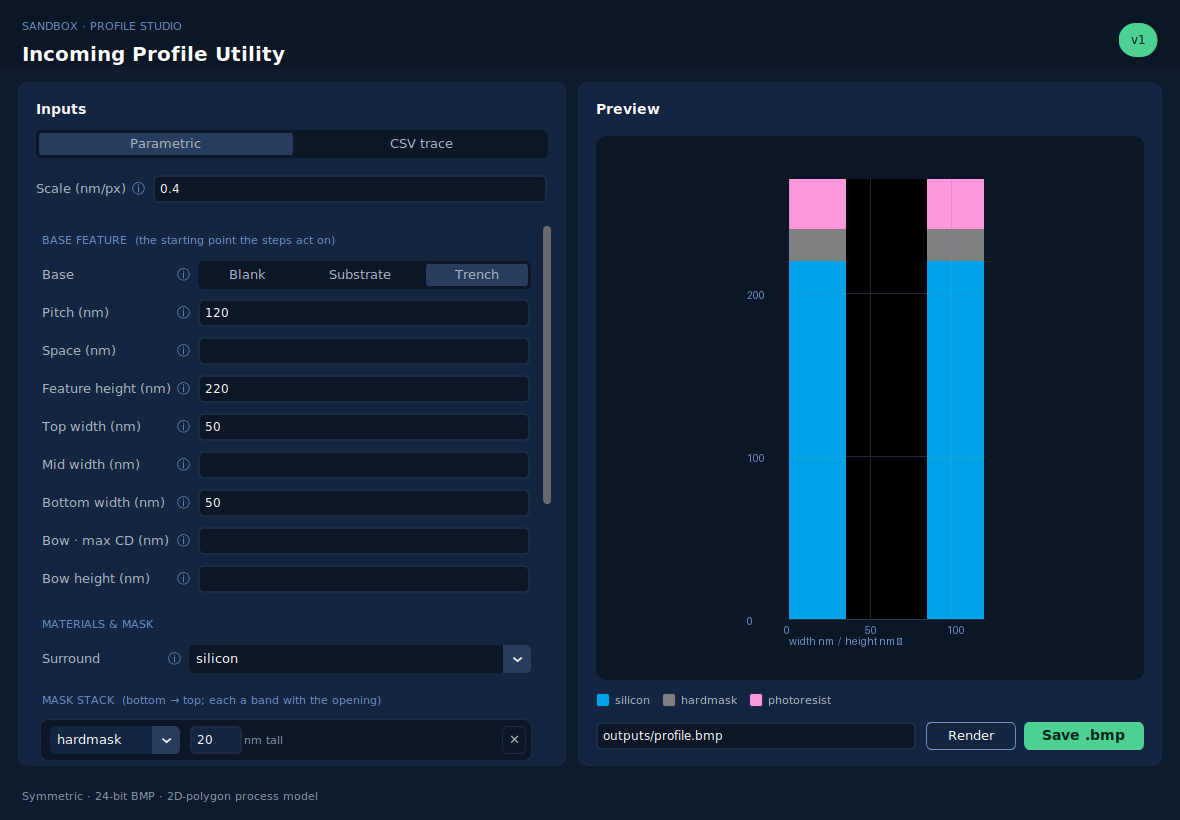
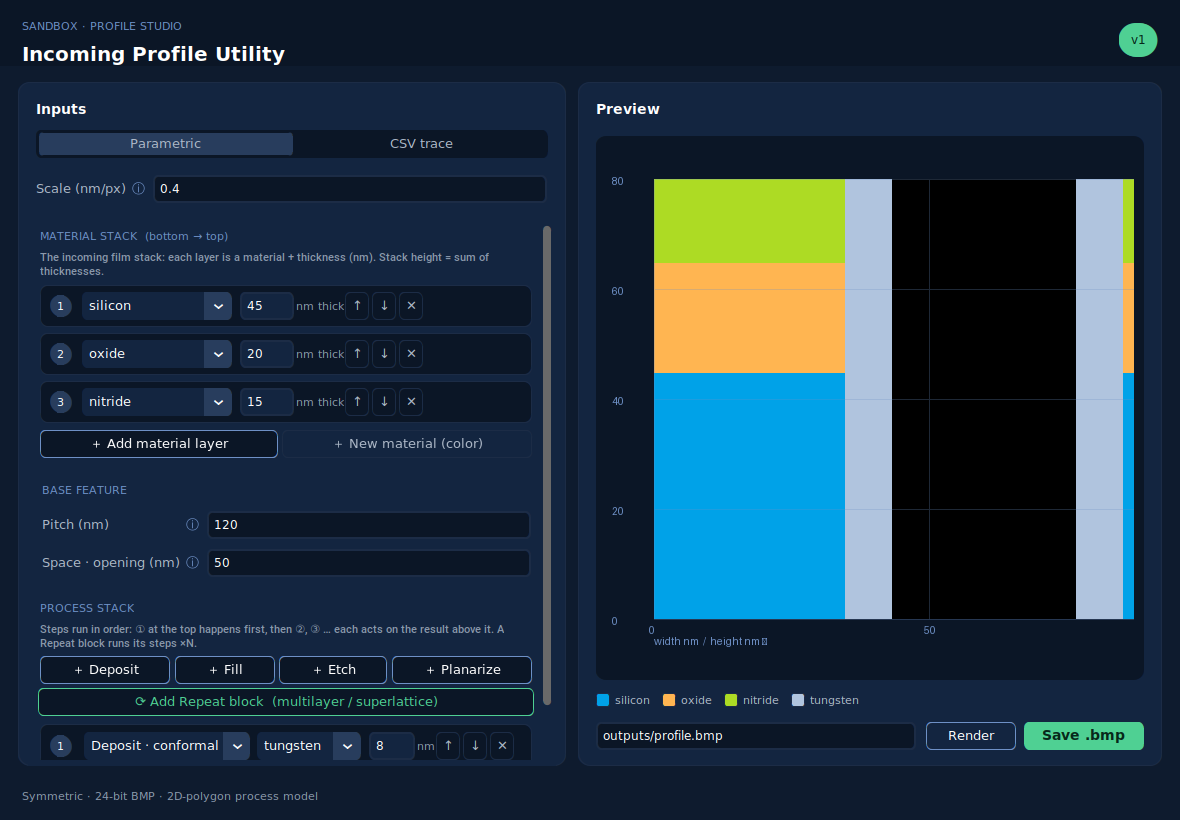
Simplify to material-stack model; fix space=opening, sticky tooltips, blank build
- Base is Blank only (removed Substrate/Trench/Line from the GUI; engine keeps them).
- Promote mask stack to a general MATERIAL STACK, defined first: ordered material +
  thickness layers (bottom->top); height = sum. build_base gains material_layers path.
- BASE FEATURE reduced to Pitch + Space; 'space' now maps directly to the opening
  width (centered rectangular opening cut through the stack) — no more doubling.
  Removed top/mid/bottom width, bow, bow_height, feature_height, mask shape, surround.
- Tooltips: switch to tk.Toplevel with show-delay, destroy-on-leave/click, and a
  safety auto-hide (fixes tooltips sticking on screen).
- conformal deposit on an empty base blankets (start-from-blank layer-by-layer works).
- 19 tests pass.

diff --git a/src/incoming_profile_utility/gui.py b/src/incoming_profile_utility/gui.py
@@ -1,14 +1,15 @@
 """Incoming Profile Utility — GUI (customtkinter), SandBox brand theme.
 
-Parametric mode drives the process-op engine (process.py): a selectable base
-(Blank / Substrate / Trench / Line) plus an ordered process stack of operations —
-including Repeat blocks for multilayer/superlattice stacks — with a live preview,
-nm grid, and material legend. CSV mode renders a width/height trace.
+Parametric mode builds an incoming structure from a **material stack** (ordered
+material layers, defined first) plus a base feature (pitch + a centered opening of
+width = space), then runs an ordered **process stack** of operations on it. Live
+preview, nm grid, material legend. CSV mode renders a width/height trace.
 """
 from __future__ import annotations
 
 import math
 import tempfile
+import tkinter as tk
 from pathlib import Path
 
 import customtkinter as ctk
@@ -24,14 +25,8 @@ BLUE="#283D5D"; BLUE_L="#6E90C6"; GREEN="#4FD093"; GREEN_D="#0E7A49"; GREEN_INK=
 ON="#FFFFFF"; SOFT="#AEB9C8"; MUT="#8B99AC"
 
 FIELDS = [
-    ("pitch","Pitch (nm)","120","Width of one repeating unit cell."),
-    ("space","Space (nm)","","Gap width. pitch = linewidth + space."),
-    ("feature_height","Feature height (nm)","220","Base (0) to top of the trench/feature."),
-    ("top_width","Top width (nm)","50","Full CD at the top (equal top & bottom = straight walls)."),
-    ("mid_width","Mid width (nm)","","Optional mid CD for a gentle curve (ignored if Bow set)."),
-    ("bottom_width","Bottom width (nm)","50","Full CD at the base."),
-    ("bow","Bow · max CD (nm)","","Maximum CD; must be >= top and bottom."),
-    ("bow_height","Bow height (nm)","","Height of the max CD (default mid)."),
+    ("pitch","Pitch (nm)","120","Width of one repeating unit cell = line + opening."),
+    ("space","Space · opening (nm)","50","Width of the centered opening cut through the stack. line width = pitch − space."),
 ]
 OP_LABELS = ["Deposit · conformal","Deposit · planar","Fill","Etch · isotropic","Etch · anisotropic","Planarize"]
 OP_PRESETS = {"deposit":("Deposit · conformal","oxide",8),"fill":("Fill","tungsten",0),
@@ -63,34 +58,64 @@ def compose_preview(bmp_path, nm_per_px, target_h=440):
 
 
 class Tooltip:
-    def __init__(self,widget,text): self.w,self.t,self.tip=widget,text,None; widget.bind("<Enter>",self._s); widget.bind("<Leave>",self._h)
-    def _s(self,_=None):
+    """Lightweight hover tooltip that reliably hides on leave (tk.Toplevel + auto-hide)."""
+    _active=None
+    def __init__(self,widget,text):
+        self.w=widget; self.t=text; self.tip=None; self._show_job=None; self._hide_job=None
+        widget.bind("<Enter>", self._enter, add="+")
+        widget.bind("<Leave>", self._leave, add="+")
+        widget.bind("<Button-1>", self._leave, add="+")
+        widget.bind("<Destroy>", self._leave, add="+")
+    def _enter(self,_=None):
+        self._cancel_jobs(); self._show_job=self.w.after(300, self._show)
+    def _show(self):
         if self.tip or not self.t: return
-        x=self.w.winfo_rootx()+18; y=self.w.winfo_rooty()+18
-        self.tip=tw=ctk.CTkToplevel(self.w); tw.wm_overrideredirect(True); tw.wm_geometry(f"+{x}+{y}"); tw.configure(fg_color=NAVY_700)
-        ctk.CTkLabel(tw,text=self.t,justify="left",wraplength=260,text_color=ON,fg_color=NAVY_700,font=ctk.CTkFont(size=11)).pack(padx=8,pady=6)
-    def _h(self,_=None):
-        if self.tip: self.tip.destroy(); self.tip=None
+        if Tooltip._active is not None:
+            try: Tooltip._active.destroy()
+            except Exception: pass
+            Tooltip._active=None
+        x=self.w.winfo_rootx()+20; y=self.w.winfo_rooty()+22
+        self.tip=tk.Toplevel(self.w); self.tip.wm_overrideredirect(True); self.tip.wm_geometry(f"+{x}+{y}")
+        tk.Label(self.tip,text=self.t,justify="left",wraplength=260,bg=NAVY_700,fg=ON,
+                 font=("",9),padx=8,pady=6,bd=0).pack()
+        Tooltip._active=self.tip
+        self._hide_job=self.w.after(6000, self._leave)   # safety auto-hide
+    def _cancel_jobs(self):
+        for j in (self._show_job,self._hide_job):
+            if j:
+                try: self.w.after_cancel(j)
+                except Exception: pass
+        self._show_job=self._hide_job=None
+    def _leave(self,_=None):
+        self._cancel_jobs()
+        if self.tip:
+            try: self.tip.destroy()
+            except Exception: pass
+            if Tooltip._active is self.tip: Tooltip._active=None
+            self.tip=None
 
 
-class MaskLayerRow:
-    """One layer of the mask stack: a material + a height (bands, bottom -> top)."""
-    def __init__(self, app, material, height):
+class MaterialLayerRow:
+    """One layer of the material stack: material + thickness (bottom -> top)."""
+    def __init__(self, app, material, thickness):
         self.app=app
-        self.frame=ctk.CTkFrame(app.mask_container, fg_color=NAVY_900, corner_radius=8, border_width=1, border_color=NAVY_700)
-        self.mat=ctk.CTkOptionMenu(self.frame, values=app.palette.names(), width=130, font=app.uf, fg_color=NAVY_800,
+        self.frame=ctk.CTkFrame(app.matstack_container, fg_color=NAVY_900, corner_radius=8, border_width=1, border_color=NAVY_700)
+        self.badge=ctk.CTkFrame(self.frame, fg_color=BLUE, corner_radius=999, width=22, height=22)
+        self.badge.pack(side="left", padx=(10,8), pady=7); self.badge.pack_propagate(False)
+        self.badge_lbl=ctk.CTkLabel(self.badge, text="1", font=app.eb, text_color=ON); self.badge_lbl.pack(expand=True)
+        self.mat=ctk.CTkOptionMenu(self.frame, values=app.palette.names(), width=150, font=app.uf, fg_color=NAVY_800,
                      button_color=BLUE, button_hover_color=BLUE_L, text_color=ON, command=lambda _v: app.render_preview())
-        self.mat.set(material); self.mat.pack(side="left", padx=(10,6), pady=7)
-        self.h=ctk.CTkEntry(self.frame, width=52, font=app.mono, fg_color=NAVY_800, border_color=NAVY_700, text_color=ON)
-        self.h.insert(0,str(height)); self.h.bind("<KeyRelease>", app._schedule_render); self.h.pack(side="left", padx=(4,2))
-        ctk.CTkLabel(self.frame, text="nm tall", font=app.eb, text_color=MUT).pack(side="left")
-        ctk.CTkButton(self.frame, text="✕", width=24, font=app.uf, fg_color="transparent", border_width=1,
-                      border_color=NAVY_700, text_color=SOFT, hover_color=NAVY_700,
-                      command=lambda: app._remove_mask_layer(self)).pack(side="right", padx=6)
+        self.mat.set(material); self.mat.pack(side="left", padx=(2,6), pady=7)
+        self.th=ctk.CTkEntry(self.frame, width=54, font=app.mono, fg_color=NAVY_800, border_color=NAVY_700, text_color=ON)
+        self.th.insert(0,str(thickness)); self.th.bind("<KeyRelease>", app._schedule_render); self.th.pack(side="left", padx=(2,2))
+        ctk.CTkLabel(self.frame, text="nm thick", font=app.eb, text_color=MUT).pack(side="left")
+        for sym,cmd in (("↑",lambda:app._move_matlayer(self,-1)),("↓",lambda:app._move_matlayer(self,1)),("✕",lambda:app._remove_matlayer(self))):
+            ctk.CTkButton(self.frame, text=sym, width=24, font=app.uf, fg_color="transparent", border_width=1,
+                          border_color=NAVY_700, text_color=SOFT, hover_color=NAVY_700, command=cmd).pack(side="left", padx=1)
     def to_layer(self):
-        try: hh=float(self.h.get())
-        except ValueError: hh=0.0
-        return dict(material=self.mat.get(), height=hh)
+        try: t=float(self.th.get())
+        except ValueError: t=0.0
+        return dict(material=self.mat.get(), thickness=t)
 
 
 class OpRow:
@@ -131,7 +156,6 @@ class OpRow:
 
 
 class RepeatRow:
-    """A repeat block: its sub-steps run `times` times in order. Used for superlattices."""
     def __init__(self, host):
         self.host=host; app=host.app
         self.frame=ctk.CTkFrame(host.container, fg_color=NAVY_800, corner_radius=8, border_width=1, border_color=GREEN_D)
@@ -150,8 +174,7 @@ class RepeatRow:
             ctk.CTkButton(addbar,text=text,command=lambda k=kind:self.sub.add_op(k),font=ctk.CTkFont(size=11),fg_color=NAVY_900,
                           border_width=1,border_color=BLUE_L,text_color=ON,hover_color=NAVY_700,width=10,height=24).pack(side="left",expand=True,fill="x",padx=2)
         self.subcont=ctk.CTkFrame(self.frame, fg_color="transparent"); self.subcont.pack(fill="x", padx=(14,6), pady=(2,8))
-        self.sub=OpList(app, self.subcont)
-        self.sub.add_op("deposit")  # seed one so the block isn't empty
+        self.sub=OpList(app, self.subcont); self.sub.add_op("deposit")
     def to_op(self):
         try: n=int(float(self.times.get()))
         except ValueError: n=1
@@ -159,7 +182,6 @@ class RepeatRow:
 
 
 class OpList:
-    """Manages an ordered container of OpRow / RepeatRow widgets."""
     def __init__(self, app, container, empty_hint=None):
         self.app=app; self.container=container; self.rows=[]; self.empty_hint=empty_hint
     def add_op(self, kind="deposit"):
@@ -189,7 +211,7 @@ class ProfileStudio(ctk.CTk):
         ctk.set_appearance_mode("dark"); self.configure(fg_color=NAVY)
         self.title("Incoming Profile Utility"); self.geometry("1180x820")
         self.palette=load_palette(); self.csv_path=None; self.mode="Parametric"
-        self.material_menus=[]; self._last_state=None
+        self.material_menus=[]; self.matlayer_rows=[]; self._last_state=None
         self.uf=ctk.CTkFont(family="Inter",size=13); self.ub=ctk.CTkFont(family="Inter",size=14,weight="bold")
         self.tf=ctk.CTkFont(family="Inter",size=20,weight="bold"); self.mono=ctk.CTkFont(family="JetBrains Mono",size=12)
         self.eb=ctk.CTkFont(family="JetBrains Mono",size=11)
@@ -232,56 +254,42 @@ class ProfileStudio(ctk.CTk):
         seg.set("Parametric"); seg.pack(fill="x",padx=18,pady=(0,10))
 
         self.param_page=ctk.CTkScrollableFrame(card,fg_color="transparent",height=520)
-        self.entries={}; self.opt={}
+        self.entries={}
 
-        # 1) BASE FEATURE (the starting point the steps act on — defined first)
-        bs=ctk.CTkFrame(self.param_page,fg_color="transparent"); bs.pack(fill="x",pady=(0,4)); bs.grid_columnconfigure(2,weight=1)
-        ctk.CTkLabel(bs,text="BASE FEATURE  (the starting point the steps act on)",font=self.eb,text_color=BLUE_L).grid(row=0,column=0,columnspan=3,sticky="w",padx=8,pady=(4,2))
-        self.base_shape=ctk.CTkSegmentedButton(bs,values=["Blank","Substrate","Trench"],command=lambda _v:self.render_preview(),font=self.uf,
-                        fg_color=NAVY_900,selected_color=BLUE,selected_hover_color=BLUE_L,unselected_color=NAVY_900,text_color=SOFT)
-        self.base_shape.set("Blank"); self._row(bs,1,"Base",
-            "Blank = empty canvas (build up with deposits). Substrate = flat slab. Trench = rectangular trench in surround + mask.",self.base_shape)
-        for i,(k,label,default,info) in enumerate(FIELDS,2):
+        # 1) MATERIAL STACK (defined first)
+        matf=ctk.CTkFrame(self.param_page,fg_color="transparent"); matf.pack(fill="x",pady=(0,6))
+        ctk.CTkLabel(matf,text="MATERIAL STACK  (bottom → top)",font=self.eb,text_color=BLUE_L).pack(anchor="w",padx=6)
+        ctk.CTkLabel(matf,text="The incoming film stack: each layer is a material + thickness (nm). Stack height = sum of thicknesses.",
+                     font=ctk.CTkFont(size=11),text_color=MUT,wraplength=500,justify="left").pack(anchor="w",padx=6,pady=(0,4))
+        self.matstack_container=ctk.CTkFrame(matf,fg_color="transparent"); self.matstack_container.pack(fill="x")
+        self.matstack_hint=ctk.CTkLabel(matf,text="No layers yet — add one to start the stack.",font=ctk.CTkFont(size=11),text_color=MUT)
+        self.matstack_hint.pack(anchor="w",padx=6)
+        addrow=ctk.CTkFrame(matf,fg_color="transparent"); addrow.pack(fill="x",padx=4,pady=(4,0))
+        ctk.CTkButton(addrow,text="＋ Add material layer",command=lambda:self._add_matlayer(),font=self.uf,fg_color=NAVY_900,
+                      border_width=1,border_color=BLUE_L,text_color=ON,hover_color=NAVY_700).pack(side="left",expand=True,fill="x",padx=2)
+        ctk.CTkButton(addrow,text="＋ New material (color)",command=self._add_material,font=self.uf,fg_color="transparent",
+                      border_width=1,border_color=NAVY_700,text_color=SOFT,hover_color=NAVY_700).pack(side="left",expand=True,fill="x",padx=2)
+
+        # 2) BASE FEATURE (pitch + opening)
+        bs=ctk.CTkFrame(self.param_page,fg_color="transparent"); bs.pack(fill="x",pady=(8,4)); bs.grid_columnconfigure(2,weight=1)
+        ctk.CTkLabel(bs,text="BASE FEATURE",font=self.eb,text_color=BLUE_L).grid(row=0,column=0,columnspan=3,sticky="w",padx=8,pady=(4,2))
+        for i,(k,label,default,info) in enumerate(FIELDS,1):
             e=ctk.CTkEntry(bs,font=self.mono,fg_color=NAVY_900,border_color=NAVY_700,text_color=ON,width=120)
             e.insert(0,default); e.bind("<KeyRelease>",self._schedule_render); self._row(bs,i,label,info,e); self.entries[k]=e
 
-        # 2) MATERIALS & MASK
-        ms=ctk.CTkFrame(self.param_page,fg_color="transparent"); ms.pack(fill="x",pady=(4,4)); ms.grid_columnconfigure(2,weight=1)
-        ctk.CTkLabel(ms,text="MATERIALS & MASK",font=self.eb,text_color=BLUE_L).grid(row=0,column=0,columnspan=3,sticky="w",padx=8,pady=(4,2))
-        self.opt["surround_material"]=self._mat_menu(ms,"silicon"); self._row(ms,1,"Surround","Bulk material of the trench/substrate.",self.opt["surround_material"])
-        ctk.CTkLabel(ms,text="MASK STACK  (bottom → top; each a band with the opening)",font=ctk.CTkFont(family="JetBrains Mono",size=11),text_color=BLUE_L).grid(row=2,column=0,columnspan=3,sticky="w",padx=8,pady=(8,2))
-        self.mask_container=ctk.CTkFrame(ms,fg_color="transparent"); self.mask_container.grid(row=3,column=0,columnspan=3,sticky="ew",padx=2)
-        self.mask_rows=[]
-        for mat,ht in [("hardmask",20),("photoresist",30)]:
-            self.mask_rows.append(MaskLayerRow(self,mat,ht))
-        self._relayout_mask()
-        ctk.CTkButton(ms,text="＋ Add mask layer",command=self._add_mask_layer,font=self.uf,fg_color="transparent",border_width=1,
-                      border_color=BLUE_L,text_color=ON,hover_color=NAVY_700).grid(row=4,column=0,columnspan=3,sticky="ew",padx=8,pady=(2,6))
-        self.mask_shape=ctk.CTkSegmentedButton(ms,values=["Square","Facet","Round"],command=lambda _v:self.render_preview(),font=self.uf,
-                        fg_color=NAVY_900,selected_color=BLUE,selected_hover_color=BLUE_L,unselected_color=NAVY_900,text_color=SOFT)
-        self.mask_shape.set("Square"); self._row(ms,5,"Top-mask shape","Corner style of the topmost mask layer (symmetric).",self.mask_shape)
-        self.entries["mask_facet_angle"]=ctk.CTkEntry(ms,font=self.mono,fg_color=NAVY_900,border_color=NAVY_700,text_color=ON,width=120)
-        self.entries["mask_facet_angle"].insert(0,"60"); self.entries["mask_facet_angle"].bind("<KeyRelease>",self._schedule_render)
-        self._row(ms,6,"Facet angle (°)","Facet sidewall angle from horizontal; 90 = square.",self.entries["mask_facet_angle"])
-        self.entries["mask_radius"]=ctk.CTkEntry(ms,font=self.mono,fg_color=NAVY_900,border_color=NAVY_700,text_color=ON,width=120)
-        self.entries["mask_radius"].insert(0,"12"); self.entries["mask_radius"].bind("<KeyRelease>",self._schedule_render)
-        self._row(ms,7,"Round radius (nm)","Corner radius when shape = Round.",self.entries["mask_radius"])
-        ctk.CTkButton(ms,text="＋ Add material",command=self._add_material,font=self.uf,fg_color="transparent",border_width=1,
-                      border_color=BLUE_L,text_color=ON,hover_color=NAVY_700).grid(row=8,column=0,columnspan=3,sticky="ew",padx=8,pady=(8,4))
-
         # 3) PROCESS STACK
-        ps=ctk.CTkFrame(self.param_page,fg_color="transparent"); ps.pack(fill="x",pady=(4,8))
+        ps=ctk.CTkFrame(self.param_page,fg_color="transparent"); ps.pack(fill="x",pady=(8,8))
         ctk.CTkLabel(ps,text="PROCESS STACK",font=self.eb,text_color=BLUE_L).pack(anchor="w",padx=6)
-        ctk.CTkLabel(ps,text="Steps run in order: ① at the top happens first, then ②, ③ … each acts on the result of the steps above it. A Repeat block runs its steps ×N (for multilayer stacks).",
+        ctk.CTkLabel(ps,text="Steps run in order: ① at the top happens first, then ②, ③ … each acts on the result above it. A Repeat block runs its steps ×N.",
                      font=ctk.CTkFont(size=11),text_color=MUT,wraplength=500,justify="left").pack(anchor="w",padx=6,pady=(0,6))
         addbar=ctk.CTkFrame(ps,fg_color="transparent"); addbar.pack(fill="x",padx=4)
         for text,kind in [("＋ Deposit","deposit"),("＋ Fill","fill"),("＋ Etch","etch"),("＋ Planarize","planarize")]:
             ctk.CTkButton(addbar,text=text,command=lambda k=kind:self.stack.add_op(k),font=self.uf,fg_color=NAVY_900,
                           border_width=1,border_color=BLUE_L,text_color=ON,hover_color=NAVY_700,width=10).pack(side="left",expand=True,fill="x",padx=2)
-        ctk.CTkButton(ps,text="⟳ Add Repeat block  (for multilayer / superlattice stacks)",command=lambda:self.stack.add_repeat(),
+        ctk.CTkButton(ps,text="⟳ Add Repeat block  (multilayer / superlattice)",command=lambda:self.stack.add_repeat(),
                       font=self.uf,fg_color=NAVY_900,border_width=1,border_color=GREEN,text_color=GREEN,hover_color=NAVY_700).pack(fill="x",padx=4,pady=(4,0))
         self.op_container=ctk.CTkFrame(ps,fg_color="transparent"); self.op_container.pack(fill="x",pady=4)
-        self.empty_hint=ctk.CTkLabel(ps,text="No steps yet — add one above to start building.",font=ctk.CTkFont(size=11),text_color=MUT)
+        self.empty_hint=ctk.CTkLabel(ps,text="No steps yet.",font=ctk.CTkFont(size=11),text_color=MUT)
         self.stack=OpList(self, self.op_container, empty_hint=self.empty_hint); self.empty_hint.pack(anchor="w",padx=6)
         ctk.CTkButton(ps,text="↺ Reset  (clear everything → blank canvas)",command=self._reset,font=self.uf,fg_color="transparent",
                       border_width=1,border_color=NAVY_700,text_color=SOFT,hover_color=NAVY_700).pack(fill="x",padx=4,pady=(6,0))
@@ -316,24 +324,31 @@ class ProfileStudio(ctk.CTk):
         self.mode=value; self.param_page.pack_forget(); self.csv_page.pack_forget()
         (self.param_page if value=="Parametric" else self.csv_page).pack(fill="both",expand=True,padx=10); self.render_preview()
 
+    # ---- material stack management ----
+    def _add_matlayer(self, material="silicon", thickness=20):
+        self.matlayer_rows.append(MaterialLayerRow(self, material, thickness)); self._relayout_matstack(); self.render_preview()
+    def _remove_matlayer(self,row):
+        row.frame.destroy(); self.matlayer_rows.remove(row); self._relayout_matstack(); self.render_preview()
+    def _move_matlayer(self,row,delta):
+        i=self.matlayer_rows.index(row); j=i+delta
+        if 0<=j<len(self.matlayer_rows):
+            self.matlayer_rows[i],self.matlayer_rows[j]=self.matlayer_rows[j],self.matlayer_rows[i]; self._relayout_matstack(); self.render_preview()
+    def _relayout_matstack(self):
+        for n,row in enumerate(self.matlayer_rows,1):
+            row.frame.pack_forget(); row.frame.pack(fill="x",padx=6,pady=3); row.badge_lbl.configure(text=str(n))
+        self.matstack_hint.pack_forget()
+        if not self.matlayer_rows: self.matstack_hint.pack(anchor="w",padx=6)
+
     def _update_menus(self):
         names=self.palette.names()
-        def rows(lst):
+        def orows(lst):
             out=[]
             for r in lst.rows:
                 if isinstance(r,OpRow): out.append(r.mat)
-                elif isinstance(r,RepeatRow): out+=rows(r.sub)
+                elif isinstance(r,RepeatRow): out+=orows(r.sub)
             return out
-        for om in self.material_menus+rows(self.stack)+[r.mat for r in self.mask_rows]:
+        for om in self.material_menus+orows(self.stack)+[r.mat for r in self.matlayer_rows]:
             cur=om.get(); om.configure(values=names); om.set(cur)
-
-    def _add_mask_layer(self, material="oxide", height=12):
-        self.mask_rows.append(MaskLayerRow(self, material, height)); self._relayout_mask(); self.render_preview()
-    def _remove_mask_layer(self,row):
-        row.frame.destroy(); self.mask_rows.remove(row); self._relayout_mask(); self.render_preview()
-    def _relayout_mask(self):
-        for r in self.mask_rows:
-            r.frame.pack_forget(); r.frame.pack(fill="x",padx=4,pady=3)
 
     def _add_material(self):
         from tkinter.colorchooser import askcolor
@@ -360,18 +375,8 @@ class ProfileStudio(ctk.CTk):
         path=filedialog.askopenfilename(filetypes=[("CSV","*.csv")])
         if not path: return
         self.csv_path=Path(path); self.csv_label.configure(text=self.csv_path.name)
-        try:
-            fitted=trace_to_parametric(load_trace(self.csv_path))
-            for k in ("bow","bow_height","mid_width"): self.entries[k].delete(0,"end")
-            for k,v in fitted.items():
-                if k in self.entries: self.entries[k].delete(0,"end"); self.entries[k].insert(0,str(v))
-            self.csv_note.configure(text="✓ Parametric fields populated from CSV (approx). Pitch/mask not in CSV — set manually.")
-        except Exception as exc:
-            self.csv_note.configure(text=f"Could not fit: {exc}")
+        self.csv_note.configure(text="✓ Loaded. The CSV trace renders directly (symmetric width/height profile).")
         self.render_preview()
-
-    def _mask_corner(self):
-        return {"Square":"square","Facet":"facet","Round":"round"}[self.mask_shape.get()]
 
     def _params(self):
         p={}
@@ -380,10 +385,7 @@ class ProfileStudio(ctk.CTk):
             if v:
                 try: p[k]=float(v)
                 except ValueError: pass
-        p["surround_material"]=self.opt["surround_material"].get()
-        p["mask_layers"]=[r.to_layer() for r in self.mask_rows]
-        p["mask_corner"]=self._mask_corner()
-        p["base_type"]={"Blank":"blank","Substrate":"substrate","Trench":"trench"}[self.base_shape.get()]
+        p["material_layers"]=[r.to_layer() for r in self.matlayer_rows]
         return p
 
     def _scale(self):
@@ -401,17 +403,10 @@ class ProfileStudio(ctk.CTk):
 
     def _reset(self):
         self.stack.clear()
+        for r in list(self.matlayer_rows): r.frame.destroy()
+        self.matlayer_rows=[]; self._relayout_matstack()
         for k,label,default,info in FIELDS:
             self.entries[k].delete(0,"end"); self.entries[k].insert(0,default)
-        self.entries["mask_facet_angle"].delete(0,"end"); self.entries["mask_facet_angle"].insert(0,"60")
-        self.entries["mask_radius"].delete(0,"end"); self.entries["mask_radius"].insert(0,"12")
-        self.opt["surround_material"].set("silicon")
-        for r in list(self.mask_rows): r.frame.destroy()
-        self.mask_rows=[]
-        for mat,ht in [("hardmask",20),("photoresist",30)]:
-            self.mask_rows.append(MaskLayerRow(self,mat,ht))
-        self._relayout_mask()
-        self.mask_shape.set("Square"); self.base_shape.set("Blank")
         self.scale_entry.delete(0,"end"); self.scale_entry.insert(0,"0.4")
         self.render_preview()
 
@@ -419,7 +414,7 @@ class ProfileStudio(ctk.CTk):
         for w in self.legend.winfo_children(): w.destroy()
         if self.mode=="CSV trace": mats=[self.csv_fill.get()]
         elif self._last_state is not None:
-            mats=[]; 
+            mats=[]
             for m,_ in self._last_state.regions:
                 if m not in mats: mats.append(m)
         else: mats=[]

diff --git a/src/incoming_profile_utility/process.py b/src/incoming_profile_utility/process.py
@@ -93,7 +93,31 @@ def mask_polygon(width, height, base_y, corner="square", facet_angle=45.0, radiu
 #   trench    : inverted default — vacuum trench carved into surround + mask
 #   line      : a solid feature (CD curve) standing in vacuum + mask
 # --------------------------------------------------------------------------- #
+def _build_material_stack(p: dict) -> State:
+    """New primary model: a vertical stack of material layers (bottom->top), each a
+    full-cell band, with a single centered rectangular opening of width `space` cut
+    through them. Height = sum of layer thicknesses. Empty stack -> blank canvas."""
+    pitch = p.get("pitch", 100.0)
+    space = p.get("space", 0.0) or 0.0
+    layers = [l for l in p.get("material_layers", []) if l.get("thickness", 0) > 0]
+    total = sum(l["thickness"] for l in layers)
+    cell = box(-pitch / 2, 0, pitch / 2, max(total, 1.0))
+    st = State(cell, [])
+    y = 0.0
+    for l in layers:
+        th = l["thickness"]
+        band = box(-pitch / 2, y, pitch / 2, y + th)
+        if space > 0:
+            band = band.difference(box(-space / 2, y, space / 2, y + th))   # opening = space, exactly
+        st.add(l["material"], band)
+        y += th
+    return st
+
+
 def build_base(p: dict) -> State:
+    if p.get("material_layers") is not None:
+        return _build_material_stack(p)
+    # --- legacy base_type path (kept for programmatic use / tests) ---
     H = p["feature_height"]
     bottom, top = p.get("bottom_width", 0.0), p.get("top_width", 0.0)
     pitch = p.get("pitch") or (p["space"] + p.get("linewidth", top))
